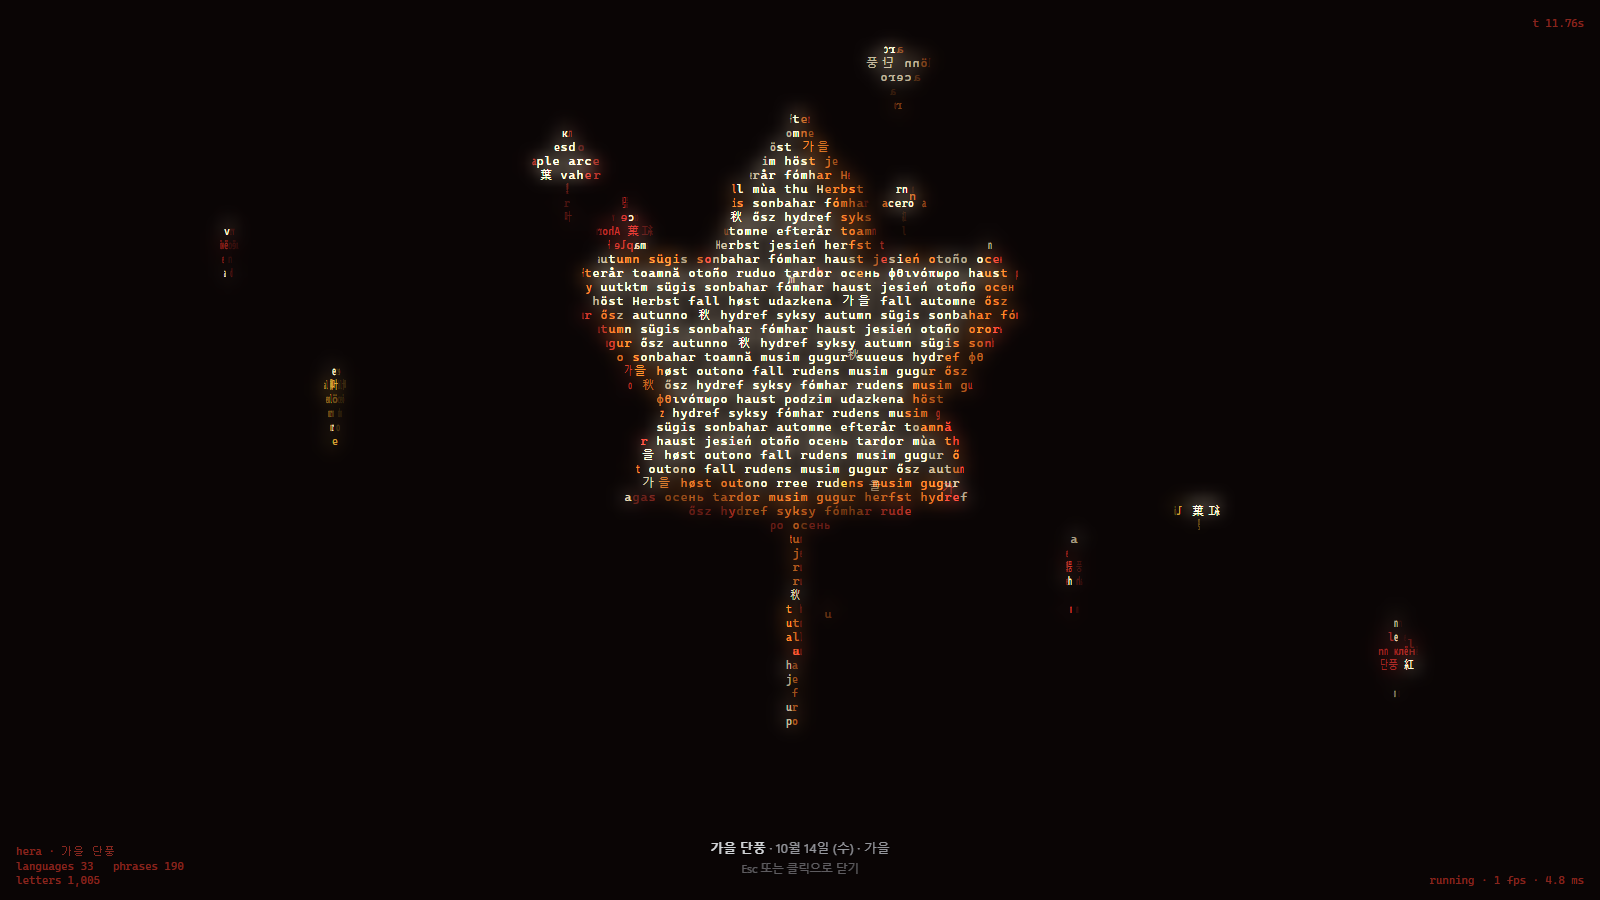
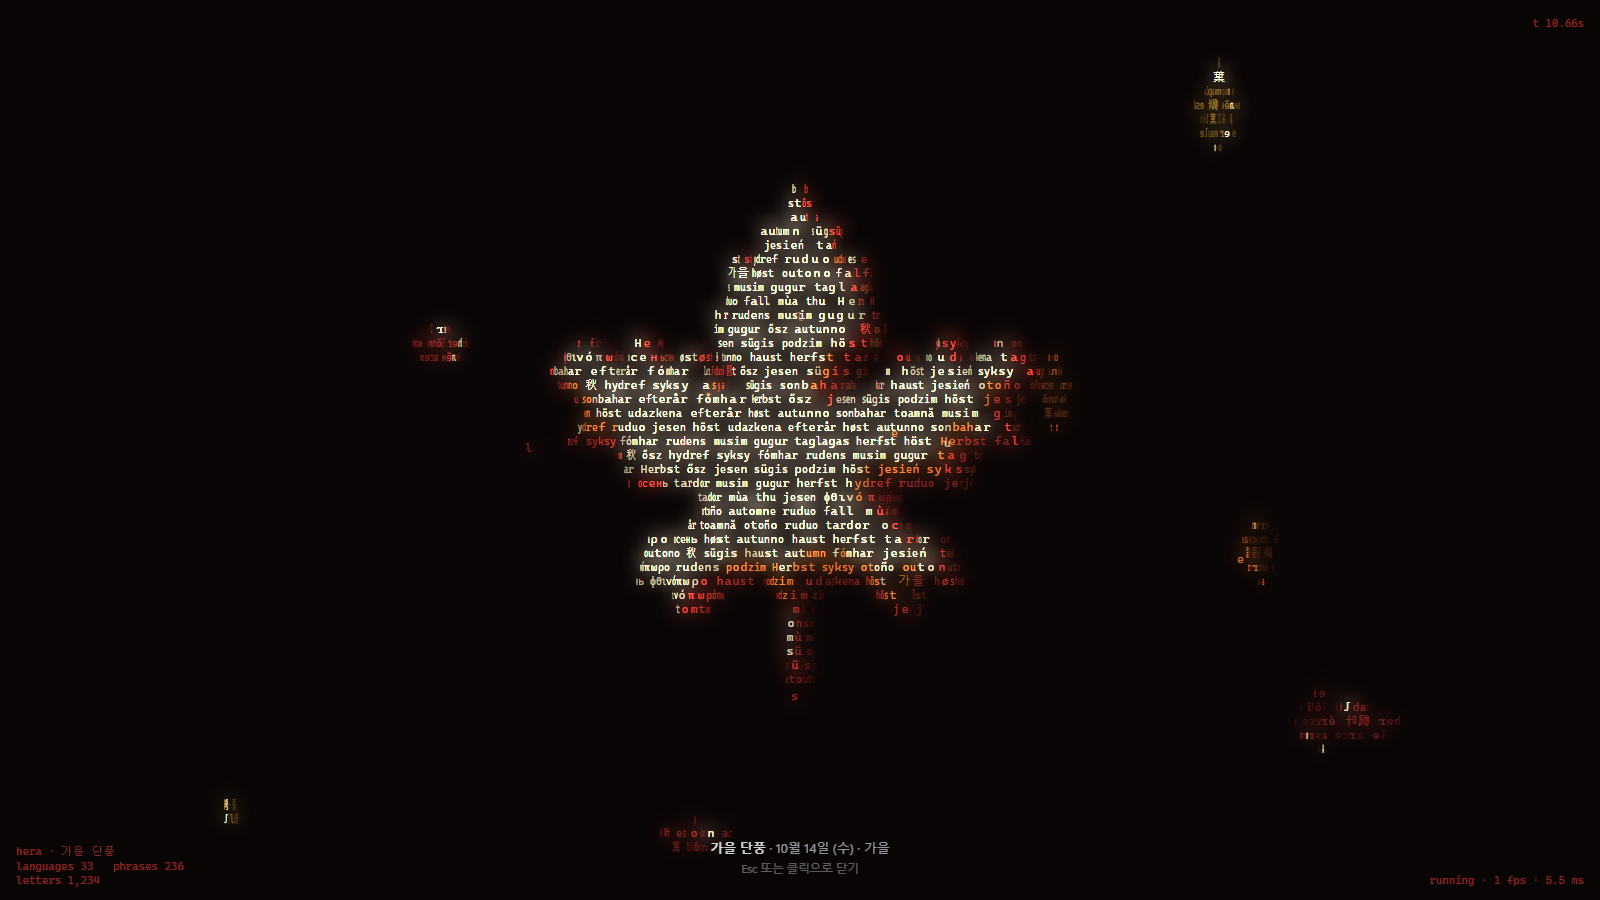
ASCII: readable 2-slot word widget, real maple silhouette, tight CJK
- Dock widget is 2 slots wide (112px) and renders its own simple view:
  4 rows of short per-scene words (행운/luck/幸運, Noël/선물, moon/잘 자요,
  가을/秋/단풍...) rotating as rings, whole words, larger font, no HUD,
  10fps only while the dock is open. The fullscreen renderer loses its
  small-mode branches.
- Maple leaf is a hand-drawn polygon: big top lobe, two side lobes, two
  smaller bottom lobes, deep sinuses, toothed edges, short stem (also used
  for the falling leaves).
- Glyph advance is measured per character (cached measureText, 1/4-cell
  resolution) instead of 1 or 2 Latin cells, so Hangul/Kana/Hanzi sit tight
  without overlapping.

Claude-Session: https://claude.ai/code/session_01SzVMEvr5862sQYSQnnGtNq

diff --git a/src/surfaces/Ascii.tsx b/src/surfaces/Ascii.tsx
@@ -7,7 +7,7 @@ import { reducedMotion, usePresence } from './Dock'
    글자는 표면에 붙어 같이 돌고, 비스듬한 면에서는 화면 폭이 줄어 저절로 가로로 눌린다(뒷면 글자는 좌우 반전).
    밝기 = 램버트 + 반사광(>1 이면 하이라이트 색) × 깊이, 효과 = 스캔 띠 · 언어 바뀜 물결 · 해독(뒤섞였다 풀림) · 반짝임 · 떨어지는 글자.
    그리기 = fillText(maxWidth = 눌린 폭) + globalAlpha, 글자 색을 1/8 버퍼에 쌓아 흐린 빛 번짐을 'lighter' 로 얹는다.
-   위젯 = 작은 글자 ≤10fps(독이 펼쳐져 있을 때만), 전체화면 ≤30fps + HUD, 숨기면 루프 없음, 이동 줄이기 = 정지 1프레임. */
+   위젯 = 회전하는 짧은 단어 고리 ≤10fps(독이 펼쳐져 있을 때만), 전체화면 ≤30fps + HUD, 숨기면 루프 없음, 이동 줄이기 = 정지 1프레임. */
 
 const TAU = Math.PI * 2
 const hash = (x: number, y: number, s = 0) => {
@@ -39,8 +39,8 @@ const DREAM = ['dream', '꿈', 'rêve', 'sueño', 'Traum', '夢', '梦', 'сон
 const AUT = ['가을', 'autumn', 'fall', 'otoño', 'automne', 'Herbst', 'autunno', 'outono', '秋', 'осень', 'jesień', 'herfst', 'höst', 'efterår', 'høst', 'syksy', 'ősz', 'podzim', 'φθινόπωρο', 'sonbahar', 'toamnă', 'jesen', 'musim gugur', 'taglagas', 'mùa thu', 'haust', 'hydref', 'tardor', 'udazkena', 'fómhar', 'ruduo', 'rudens', 'sügis']
 const LEAF = ['단풍', 'maple', 'érable', 'Ahorn', '紅葉', '枫叶', 'клён', 'acero', 'arce', 'esdoorn', 'lönn', 'vaher']
 
-/* ── 글자 흐름: 문구를 섞어 4번 이어 붙인 긴 줄. 표면 u(글자 칸 단위) → 글자 index (한중일 = 2칸, 실제 폭으로 잰다) ── */
-type Stream = { ch: string[]; wu: Uint8Array; word: Int32Array; head: Uint8Array; at: Int32Array; U: number; nz: Int32Array }
+/* ── 글자 흐름: 문구를 섞어 4번 이어 붙인 긴 줄. 표면 u(라틴 글자 칸 단위) → 글자 index. 글자마다 실제 폭을 재서(1/4 칸 단위) 한중일도 빈틈 없이 ── */
+type Stream = { ch: string[]; wu: Float32Array; word: Int32Array; head: Uint8Array; at: Int32Array; U: number; nz: Int32Array }
 let mx: CanvasRenderingContext2D | null = null
 let mUnit = 1
 const wcache = new Map<string, number>()
@@ -48,7 +48,7 @@ function unitsOf(c: string) {
   let w = wcache.get(c)
   if (w === undefined) {
     if (!mx) (mx = document.createElement('canvas').getContext('2d')!), (mx.font = `40px ${FONT}`), (mUnit = mx.measureText('M').width)
-    wcache.set(c, (w = mx.measureText(c).width > mUnit * 1.3 ? 2 : 1))
+    wcache.set(c, (w = Math.min(2, Math.max(0.5, Math.round((mx.measureText(c).width / mUnit) * 4) / 4))))
   }
   return w
 }
@@ -65,10 +65,10 @@ function mkStream(list: string[], seed: number): Stream {
     }
   const at: number[] = []
   ch.forEach((c, i) => {
-    for (let u = unitsOf(c); u > 0; u--) at.push(i)
+    for (let u = unitsOf(c) * 4; u > 0; u--) at.push(i) // 1/4 칸마다 글자 index
   })
   const nz = ch.flatMap((c, i) => (c === ' ' ? [] : [i]))
-  return { ch, wu: Uint8Array.from(ch, unitsOf), word: Int32Array.from(word), head: Uint8Array.from(head), at: Int32Array.from(at), U: at.length, nz: Int32Array.from(nz) }
+  return { ch, wu: Float32Array.from(ch, unitsOf), word: Int32Array.from(word), head: Uint8Array.from(head), at: Int32Array.from(at), U: at.length, nz: Int32Array.from(nz) }
 }
 
 /* ── 줄 래스터: 줄 r × 칸 i. 칸마다 깊이·글자·밝기·재질·흐름·방향(-1 = 뒷면, 좌우 반전) ── */
@@ -76,7 +76,7 @@ const LX = -0.47, LY = 0.55, LZ = 0.69 // 빛 (왼쪽 위 앞)
 const HX = LX * 0.62, HY = LY * 0.62, HZ = (LZ + 1) * 0.62 // 반사광 half 벡터 (근사 정규화)
 const AMB = 0.3, DIF = 0.8
 class Rows {
-  W = 0; R = 0; cs = 1; lh = 1; uw = 1; S = 1; cx = 0; cy = 0; pw = 0; ph = 0; small = false
+  W = 0; R = 0; cs = 1; lh = 1; uw = 1; S = 1; cx = 0; cy = 0; pw = 0; ph = 0
   z = new Float32Array(0)
   k = new Int32Array(0)
   l = new Float32Array(0)
@@ -85,9 +85,9 @@ class Rows {
   d = new Int8Array(0)
   st: Stream[] = []
   rp = -1; rcx = 0; rcy = 0; sh0 = 0; sh1 = 0 // 언어 바뀜 물결: 반지름 rp 안 = sh1, 밖 = sh0
-  resize(pw: number, ph: number, lh: number, uw: number, cs: number, S: number, small: boolean) {
+  resize(pw: number, ph: number, lh: number, uw: number, cs: number, S: number) {
     const W = Math.ceil(pw / cs), R = Math.floor(ph / lh)
-    Object.assign(this, { W, R, cs, lh, uw, S, small, pw, ph, cx: pw / 2, cy: (R * lh) / 2 })
+    Object.assign(this, { W, R, cs, lh, uw, S, pw, ph, cx: pw / 2, cy: (R * lh) / 2 })
     for (const [k, T] of [['z', Float32Array], ['k', Int32Array], ['l', Float32Array], ['m', Int8Array], ['s', Int8Array], ['d', Int8Array]] as const) (this as Record<string, unknown>)[k] = new T(W * R)
   }
   clear() {
@@ -117,8 +117,8 @@ class Rows {
         const dx = i * cs - this.rcx
         if (dx * dx + dy * dy > rp2) sh = this.sh0
       }
-      let q = Math.floor(u0 + (u1 - u0) * f)
-      if (per) q = ((q % per) + per) % per
+      let q = Math.floor((u0 + (u1 - u0) * f) * 4)
+      if (per) q = ((q % (per * 4)) + per * 4) % (per * 4)
       q = (q + off + sh) % U
       if (q < 0) q += U
       this.z[o] = z
@@ -246,20 +246,26 @@ const CLOVER = () =>
     }
     return false
   }, 0.15, 0.17))
+const MAPLE_R = [
+  [0, 0.95], [0.06, 0.8], [0.12, 0.84], [0.15, 0.68], [0.23, 0.73], [0.25, 0.54], [0.31, 0.58], [0.27, 0.4], // 위 잎 오른쪽 톱니
+  [0.13, 0.27], // 깊은 골
+  [0.3, 0.33], [0.36, 0.45], [0.45, 0.38], [0.56, 0.5], [0.62, 0.39], [0.76, 0.47], [0.9, 0.36], // 옆 잎 윗변 → 끝
+  [0.76, 0.24], [0.83, 0.13], [0.64, 0.11], [0.6, 0.0], // 옆 잎 아랫변
+  [0.3, -0.03], // 골
+  [0.44, -0.15], [0.52, -0.11], [0.58, -0.3], [0.45, -0.31], [0.41, -0.42], [0.27, -0.31], // 아래 잎
+  [0.1, -0.29], [0.03, -0.37], [0.035, -0.6], // 잎자루
+]
+const MAPLE_P = [...MAPLE_R, ...MAPLE_R.map(([x, y]) => [-x, y]).reverse()].map(([x, y]) => [x, y - 0.17])
 let mapleShape: Shape | null = null
 const MAPLE = () =>
   (mapleShape ??= shape((x, y) => {
-    if (Math.abs(x - 0.03 * y) < 0.028 && y < -0.1 && y > -0.94) return true // 잎자루
-    const yy = y - 0.08, p = Math.atan2(yy, x)
-    let r = 0.4
-    for (const [deg, amp, w] of [[90, 0.88, 0.85], [32, 0.8, 0.8], [148, 0.8, 0.8], [-28, 0.6, 0.6], [208, 0.6, 0.6]]) {
-      let dd = Math.abs(p - (deg * Math.PI) / 180) % TAU
-      if (dd > Math.PI) dd = TAU - dd
-      r = Math.max(r, 0.4 + (amp - 0.4) * Math.max(0, 1 - dd / w) ** 1.4)
+    let inside = false // 짝수-홀수 규칙
+    for (let i = 0, j = MAPLE_P.length - 1; i < MAPLE_P.length; j = i++) {
+      const [xi, yi] = MAPLE_P[i], [xj, yj] = MAPLE_P[j]
+      if (yi > y !== yj > y && x < ((xj - xi) * (y - yi)) / (yj - yi) + xi) inside = !inside
     }
-    r += 0.05 * Math.max(0, Math.sin(p * 21)) ** 3 * Math.min(1, (r - 0.4) * 4) // 톱니
-    return Math.hypot(x, yy) < r
-  }, 0.12, 0.15))
+    return inside
+  }, 0.12, 0.13, 200))
 
 /* ── 장면 ── */
 const T0 = 24 // 장면 시계 시작값: 선물이 몇 개 쌓인 채로 시작, 정지 프레임도 이 시각
@@ -267,7 +273,7 @@ type Gly = { m: number; lum: number; k: number; s: number; row: number }
 type Over = { put: (c: string, x: number, y: number, m: number, a: number, k?: number) => void; free: (x: number, y: number) => boolean }
 type Run = { geo: (R: Rows, t: number, dt: number) => void; over?: (o: Over, R: Rows, t: number, dt: number) => void; tint?: (g: Gly, t: number) => void }
 type Fx = { band?: number; ripple?: number; decode?: number; sparkle?: number; fall?: number }
-type Scene = { name: string; bg: string; mats: string[]; phrases: string[][]; fx: Fx; make: () => Run; built?: Stream[] } // mats[0] = 하이라이트
+type Scene = { name: string; bg: string; mats: string[]; phrases: string[][]; mini: [string, number][]; fx: Fx; make: () => Run; built?: Stream[] } // mats[0] = 하이라이트
 
 /** 유성: period 초마다 문구 글자가 꼬리를 끌며 하늘을 비스듬히 가로지른다 */
 function shoot(o: Over, R: Rows, t: number, st: Stream, m: number, period: number) {
@@ -295,6 +301,7 @@ const xmas: Scene = {
   bg: '#03060d',
   mats: ['#fffbe6', '#47e07c', '#b07a4a', '#ffd84a', '#ff5468', '#62b6ff', '#eef4ff', '#c49bff', '#cfe0ff'],
   phrases: [XMAS, GIFT, HOPE, SNOWW, WISH],
+  mini: [['Noël', 1], ['선물', 4], ['Merry', 3], ['눈', 8], ['gift', 5], ['聖誕', 4], ['hope', 3], ['★', 3]],
   fx: { ripple: 9, decode: 0.05, sparkle: 0.002 },
   make() {
     const [TREE, TRUNK, GOLD, RED, BLUE, WHITE, PURPLE, SNOW] = [1, 2, 3, 4, 5, 6, 7, 8]
@@ -341,7 +348,7 @@ const xmas: Scene = {
         // 별: ★ + 희망 글자 8갈래 빛살 (길이가 숨쉬고, 6초마다 번쩍)
         const sx = R.cx, sy = R.cy - 0.71 * R.S, flash = (t % 6) < 0.5 ? 1 - (t % 6) / 0.5 : 0
         for (let i = 0; i < 8; i++) {
-          const a = (i * TAU) / 8 + t * 0.25, n = Math.round((R.small ? 1.5 : 3) + 2.5 * (0.5 + 0.5 * Math.sin(t * 2.3 + i * 1.7)) + flash * 4)
+          const a = (i * TAU) / 8 + t * 0.25, n = Math.round(3 + 2.5 * (0.5 + 0.5 * Math.sin(t * 2.3 + i * 1.7)) + flash * 4)
           for (let j = 0, q = i * 23; j < n; j++, q++) {
             const sl = st[2].ch[st[2].nz[q % st[2].nz.length]]
             const d = (j + 1.7) * lh * 0.78
@@ -358,7 +365,7 @@ const xmas: Scene = {
           x += w * uw
         }
         // 눈: 3D 위치(z<0 = 트리 뒤라 가려짐), 가까울수록 크고 밝게
-        const N = R.small ? 24 : 110
+        const N = 110
         if (!fl || fl.length !== N * 4) {
           fl = new Float32Array(N * 4)
           for (let k = 0; k < N; k++) fl.set([(Math.random() - 0.5) * (R.pw / R.S), -0.85 + Math.random() * 2, Math.random() * 2 - 1, 0.12 + Math.random() * 0.16], k * 4)
@@ -384,6 +391,7 @@ const city: Scene = {
   bg: '#02040b',
   mats: ['#ffffff', '#9fb4e6', '#ffc24a', '#ff9a3c', '#3a4870', '#f6ecc4', '#ff5a5a', '#c9d6ff', '#ffc24a'],
   phrases: [NIGHT, MOONW, DREAM],
+  mini: [['moon', 5], ['잘 자요', 1], ['夢', 2], ['night', 7], ['달', 5], ['nuit', 1], ['晚安', 2], ['dream', 7]],
   fx: { band: 13, decode: 0.04, sparkle: 0.0008 },
   make() {
     const [WALL, WIN, WINC, DARK, MOON, RED, STAR] = [1, 2, 3, 4, 5, 6, 7]
@@ -434,7 +442,7 @@ const city: Scene = {
         }
       },
       over(o, R, t) {
-        const n = R.small ? 14 : 80
+        const n = 80
         for (let k = 0; k < n; k++) {
           const x = hash(k, 1, 3) * R.pw, y = hash(k, 2, 3) * R.ph * 0.55, tw = Math.sin(t * 1.4 + k * 2.7)
           if (o.free(x, y)) o.put(hash(k, 3, 3) < 0.08 ? '✦' : hash(k, 3, 3) < 0.25 ? '+' : '·', x, y, STAR, tw > 0.7 ? 0.9 : 0.35)
@@ -455,6 +463,7 @@ const autumn: Scene = {
   bg: '#0a0505',
   mats: ['#fff1d0', '#ff4a3a', '#ff8a2a', '#ffc340', '#c22f2a', '#ffb08a'],
   phrases: [AUT, LEAF],
+  mini: [['가을', 3], ['秋', 1], ['fall', 2], ['단풍', 1], ['otoño', 3], ['紅葉', 2], ['Herbst', 1], ['leaf', 3]],
   fx: { band: 10, decode: 0.05, sparkle: 0.0015, fall: 9 },
   make() {
     const [RED, OR, AMB2, DEEP] = [1, 2, 3, 4]
@@ -473,7 +482,7 @@ const autumn: Scene = {
           L[o + 3] += dt * 1.6
           L[o + 4] += dt * 1.1
           if (L[o + 1] < -1.15) spawn(o, 1.2)
-          pillow(R, sh, L[o], L[o + 1], R.small ? 0.16 : 0.12 + 0.04 * hash(k, 1), L[o + 3], 0.3 + 0.7 * Math.abs(Math.cos(L[o + 4])), 1, () => LEAFC[k % 4], 20 + k, 0.9)
+          pillow(R, sh, L[o], L[o + 1], 0.12 + 0.04 * hash(k, 1), L[o + 3], 0.3 + 0.7 * Math.abs(Math.cos(L[o + 4])), 1, () => LEAFC[k % 4], 20 + k, 0.9)
         }
       },
     }
@@ -486,6 +495,7 @@ const calm: Scene = {
   bg: '#000000',
   mats: ['#e2ffec', '#45ff8a'],
   phrases: [LUCK],
+  mini: [['행운', 1], ['luck', 1], ['幸運', 1], ['suerte', 1], ['chance', 1], ['Glück', 1], ['福', 1], ['lycka', 1]],
   fx: { band: 7, ripple: 8, decode: 0.05, sparkle: 0.002, fall: 7 },
   make() {
     return { geo: (R, t) => pillow(R, CLOVER(), 0, 0.02 * Math.sin(t * 0.8), 0.98, (t - T0) * 0.6 + 0.35, 1, 0, () => 1, 7) }
@@ -613,14 +623,14 @@ function paint(ctx: CanvasRenderingContext2D, R: Rows, sc: Scene, run: Run, t: n
   return [letters, phrases]
 }
 
-/** 렌더 루프. small = 독 위젯(작은 글자, 빛 번짐·HUD 없음). live=false 거나 이동 줄이기면 1프레임만. */
-function AsciiCanvas({ id, live, fps, small }: { id: SceneId; live: boolean; fps: number; small?: boolean }) {
+/** 전체화면 렌더 루프 ≤30fps. live=false 거나 이동 줄이기면 1프레임만. */
+function AsciiCanvas({ id, live }: { id: SceneId; live: boolean }) {
   const ref = useRef<HTMLCanvasElement>(null)
   useEffect(() => {
     const cv = ref.current!, ctx = cv.getContext('2d', { alpha: false })!
     const sc = SCENES[id], st = (sc.built ??= sc.phrases.map(mkStream)), run = sc.make(), R = new Rows()
     R.st = st
-    const gcv = document.createElement('canvas'), gx = gcv.getContext('2d')!, glow = small ? null : new Glow(sc.mats)
+    const gcv = document.createElement('canvas'), gx = gcv.getContext('2d')!, glow = new Glow(sc.mats)
     const PN = 160, P = new Float32Array(PN * 8) // 떨어지는 글자: x y vx vy life 흐름 글자 재질
     let pn = 0, acc = 0, ms = 0, fpsE = 0, kdp = 1, font = ''
     const cand: number[] = []
@@ -629,7 +639,7 @@ function AsciiCanvas({ id, live, fps, small }: { id: SceneId; live: boolean; fps
         if (a <= 0.02) return
         ctx.globalAlpha = Math.min(1, a)
         ctx.fillStyle = sc.mats[m]
-        glow?.add(x, y, m, a * k * k)
+        glow.add(x, y, m, a * k * k)
         if (k === 1) return ctx.fillText(c, x, y)
         ctx.setTransform(k, 0, 0, k, x, y)
         ctx.fillText(c, 0, 0)
@@ -645,13 +655,13 @@ function AsciiCanvas({ id, live, fps, small }: { id: SceneId; live: boolean; fps
       const w = cv.clientWidth, h = cv.clientHeight
       cv.width = Math.max(1, Math.round(w * kdp))
       cv.height = Math.max(1, Math.round(h * kdp))
-      const lh = Math.max(5, Math.round((small ? h / 6.5 : Math.min(15, Math.max(10, h / 64))) * kdp))
+      const lh = Math.max(5, Math.round(Math.min(15, Math.max(10, h / 64)) * kdp))
       ctx.font = font = `${Math.round(lh * 0.86)}px ${FONT}`
       const uw = Math.max(2, Math.ceil(ctx.measureText('M').width))
-      R.resize(cv.width, cv.height, lh, uw, small ? 1 : Math.max(1, Math.round(uw / 4)), (small ? 0.56 : 0.42) * cv.height, !!small)
-      glow?.resize(cv.width, cv.height)
-      gcv.width = glow?.w ?? 1
-      gcv.height = glow?.h ?? 1
+      R.resize(cv.width, cv.height, lh, uw, Math.max(1, Math.round(uw / 4)), 0.42 * cv.height)
+      glow.resize(cv.width, cv.height)
+      gcv.width = glow.w
+      gcv.height = glow.h
     }
     const t0 = performance.now()
     let raf = 0, last = 0
@@ -682,7 +692,7 @@ function AsciiCanvas({ id, live, fps, small }: { id: SceneId; live: boolean; fps
       run.over?.(ov, R, t, dt)
       // 떨어지는 글자: 표면에서 떨어져 나와 중력으로 떨어지며 사라짐
       if (fx.fall && cand.length) {
-        for (acc += fx.fall * dt * (small ? 0.4 : 1); acc >= 1; acc--) {
+        for (acc += fx.fall * dt; acc >= 1; acc--) {
           const c = Math.floor(Math.random() * (cand.length / 5)) * 5
           P.set([cand[c], cand[c + 1], (Math.random() - 0.5) * R.lh * 2, -R.lh * (0.5 + Math.random()), 1, cand[c + 2], cand[c + 3], cand[c + 4]], (pn++ % PN) * 8)
         }
@@ -695,8 +705,8 @@ function AsciiCanvas({ id, live, fps, small }: { id: SceneId; live: boolean; fps
         P[p + 4] -= dt * 0.55
         ov.put(st[P[p + 5]].ch[P[p + 6]], P[p], P[p + 1], P[p + 4] > 0.9 ? 0 : P[p + 7], P[p + 4] * 0.85)
       }
-      if (!small) {
-        glow!.flush(gx, 120)
+      {
+        glow.flush(gx, 120)
         ctx.globalCompositeOperation = 'lighter'
         ctx.globalAlpha = 1
         ctx.drawImage(gcv, 0, 0, cv.width, cv.height)
@@ -722,22 +732,66 @@ function AsciiCanvas({ id, live, fps, small }: { id: SceneId; live: boolean; fps
     if (!live || reducedMotion()) return
     const loop = (now: number) => {
       raf = requestAnimationFrame(loop)
-      if (now - last >= 1000 / fps - 3) render(now)
+      if (now - last >= 1000 / 30 - 3) render(now)
     }
     raf = requestAnimationFrame(loop)
     const onResize = () => (size(), render(performance.now()))
-    if (!small) addEventListener('resize', onResize)
+    addEventListener('resize', onResize)
     return () => (cancelAnimationFrame(raf), removeEventListener('resize', onResize))
   }, [id, live])
   return <canvas ref={ref} className="ascii3d" aria-hidden />
 }
 
-/** 독 위젯 1칸: 작은 글자, 독이 펼쳐져 있을 때만 10fps */
+/** 독 위젯(독 2칸 폭): 짧은 단어 고리 4줄이 세로축으로 돈다 — 단어가 통째로 읽히게 큰 글자, 비스듬하면 가로로 눌리고 뒤쪽은 숨김.
+    맨 앞을 지나는 단어는 하이라이트 색. 독이 펼쳐져 있을 때만 10fps, 숨기면 루프 없음, 이동 줄이기 = 정지 1프레임. */
+function AsciiMini({ id, live }: { id: SceneId; live: boolean }) {
+  const ref = useRef<HTMLCanvasElement>(null)
+  useEffect(() => {
+    const cv = ref.current!, ctx = cv.getContext('2d', { alpha: false })!, sc = SCENES[id], words = sc.mini
+    const k = devicePixelRatio || 1, W = (cv.width = Math.round(cv.clientWidth * k)), H = (cv.height = Math.round(cv.clientHeight * k))
+    const ROWS = 4, lh = H / ROWS, N = 4, rad = W * 0.36
+    ctx.font = `600 ${Math.round(lh * 0.74)}px ${FONT}`
+    ctx.textAlign = 'center'
+    ctx.textBaseline = 'middle'
+    const ww = words.map(([w]) => ctx.measureText(w).width)
+    const draw = (t: number) => {
+      ctx.globalAlpha = 1
+      ctx.fillStyle = sc.bg
+      ctx.fillRect(0, 0, W, H)
+      for (let r = 0; r < ROWS; r++) {
+        const th = t * 0.9 + r * 0.55, y = (r + 0.55) * lh
+        for (let i = 0; i < N; i++) {
+          const a = th + (i * TAU) / N, c = Math.cos(a), wi = (r * 3 + i * 2) % words.length
+          if (c < 0.12) continue
+          const [w, m] = words[wi], x = W / 2 + Math.sin(a) * rad
+          ctx.globalAlpha = 0.3 + 0.7 * c
+          ctx.fillStyle = sc.mats[c > 0.985 ? 0 : m]
+          ctx.setTransform(c, 0, 0, 1, x, y)
+          ctx.fillText(w, 0, 0, Math.max(ww[wi], 1))
+        }
+        ctx.setTransform(1, 0, 0, 1, 0, 0)
+      }
+    }
+    const t0 = performance.now()
+    draw(T0)
+    if (!live || reducedMotion()) return
+    let raf = 0, last = 0
+    const loop = (now: number) => {
+      raf = requestAnimationFrame(loop)
+      if (now - last >= 97) (last = now), draw((now - t0) / 1000 + T0)
+    }
+    raf = requestAnimationFrame(loop)
+    return () => cancelAnimationFrame(raf)
+  }, [id, live])
+  return <canvas ref={ref} className="ascii3d" aria-hidden />
+}
+
+/** 독 위젯(독 2칸 폭): 독이 펼쳐져 있을 때만 움직인다 */
 export function AsciiWidget({ id, live, onOpen }: { id: SceneId; live: boolean; onOpen: (r: DOMRect) => void }) {
   const box = useRef<HTMLButtonElement>(null)
   return (
     <button ref={box} className="dock-slot widget ascii-w" style={{ background: SCENES[id].bg }} onClick={() => onOpen(box.current!.getBoundingClientRect())} aria-label={`아스키 아트 · ${SCENES[id].name} (클릭: 전체화면)`}>
-      <AsciiCanvas id={id} live={live} fps={10} small />
+      <AsciiMini id={id} live={live} />
     </button>
   )
 }
@@ -776,7 +830,7 @@ export function AsciiFull({ open, id, from, saver, caption, onClose, onClosed }:
       role="dialog"
       aria-label={`아스키 아트 전체화면 · ${SCENES[id].name}`}
     >
-      <AsciiCanvas id={id} live={open} fps={30} />
+      <AsciiCanvas id={id} live={open} />
       <footer>
         <b>{SCENES[id].name}</b> · {caption}
         <small>{saver ? '마우스를 움직이거나 아무 키나 누르면 돌아가요' : 'Esc 또는 클릭으로 닫기'}</small>

diff --git a/src/styles/v2.css b/src/styles/v2.css
@@ -155,7 +155,7 @@
 
 /* ── 아스키 (3D 캔버스) ── */
 .ascii3d { position: absolute; inset: 0; width: 100%; height: 100%; display: block; }
-.ascii-w { width: 88px; overflow: hidden; padding: 0; border: 0; cursor: default; box-shadow: inset 0 0 0 1px var(--line-strong); }
+.ascii-w { width: 112px; /* 독 2칸 (52 × 2 + 사이 8) */ overflow: hidden; padding: 0; border: 0; cursor: default; box-shadow: inset 0 0 0 1px var(--line-strong); }
 .ascii-w .ascii3d { border-radius: inherit; pointer-events: none; }
 .ascii-w::after { content: ''; position: absolute; inset: 0; border-radius: inherit; box-shadow: inset 0 1px 0 rgba(255, 255, 255, 0.12); }
 .ascii-full {
